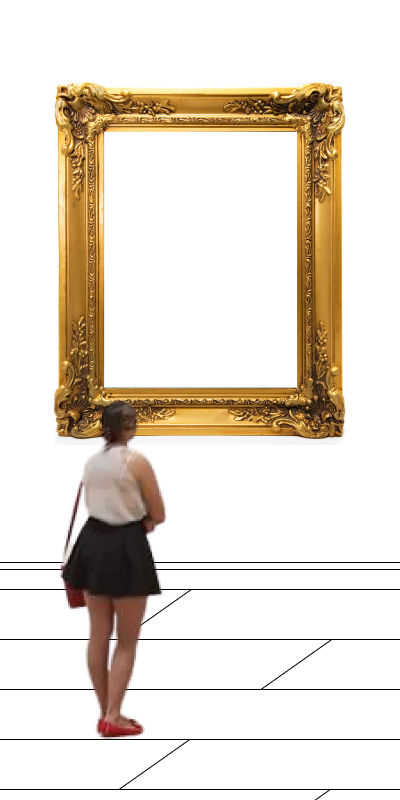
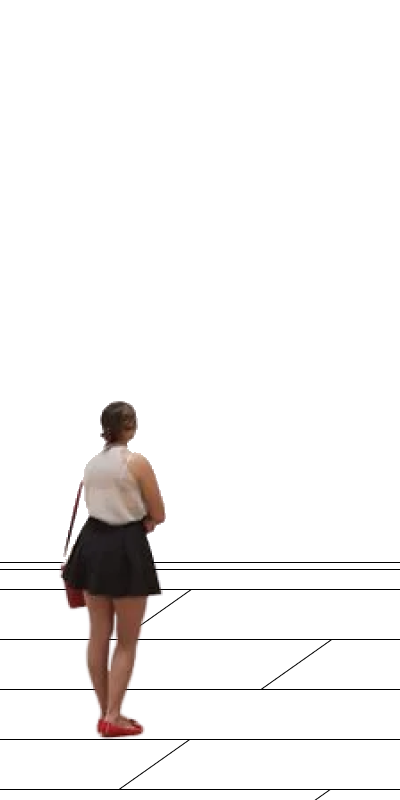
some hero fixes

Changed region(s): [[0.12, 0.0938, 0.87, 0.5938], [0.15, 0.6562, 0.18, 0.7188]]

diff --git a/src/pages/Home/components/Hero/hero.scss b/src/pages/Home/components/Hero/hero.scss
@@ -6,41 +6,74 @@
 
 .hero-container {
   position: relative;
-  display: flex;
-  flex-direction: column;
+  // display: flex;
+  // flex-direction: column;
   align-items: center;
+  // max-height: calc(100vh - 75px - 75px);
+  overflow: hidden;
+  // border-bottom: 20px solid darkorange;
+  padding-bottom: 200px;
+  // position: absolute;
 
   .hero-text {
-    margin-top: 50px;
+    margin: 50px auto;
     text-transform: uppercase;
-    position: absolute;
     top: 0;
     z-index: 1;
+    width: fit-content;
 
     p {
       font-weight: 600;
       font-size: 30pt;
+      font-size: 5vh;
     }
 
     h1 {
       color: $blue;
       font-size: 40pt;
+      margin: 0;
     }
 
     p,
     h1 {
-      margin: 0.25em;
+      // margin: 0.25em;
+      margin: 10px;
+      line-height: 40pt;
     }
   }
 
+  .hero-frame {
+    overflow: hidden;
+  }
+
+  .hero-frame::before {
+    content: "";
+    height: 0;
+    padding-top: 70%;
+    border: 5px solid black;
+    width: 60%;
+    margin: 0 auto;
+    overflow: hidden;
+    box-sizing: border-box;
+    display: block;
+    // background-image: url(https://images.bonnier.cloud/files/his/production/2019/09/09030543/monalisa-top-cl0c6spp8iifduekmjtzyq.jpg);
+    background-size: cover;
+    background-position: center;
+  }
+
   .hero-image {
-    height: 1000px;
+    position: absolute;
+    bottom: 0;
+    right: 0;
+    // height: 100vh;
+    // width: 100%;
+    // margin-top: 200px;
+    height: 50%;
     width: 100%;
-    margin-top: 200px;
     background-image: url(../../../../../public/assets/hero/hero-mobile.png);
     background-size: cover;
     background-repeat: no-repeat;
-    background-position: center;
+    background-position: right 60%;
 
     img {
       width: 150px;
@@ -70,7 +103,6 @@
     }
 
     .hero-image {
-      height: calc(100vh - 75px);
       margin-top: 0;
       background-image: url(../../../../../public/assets/hero/hero-desktop.png);
     }

diff --git a/src/pages/Home/components/Hero/Hero.tsx b/src/pages/Home/components/Hero/Hero.tsx
@@ -4,11 +4,14 @@ export const Hero = () => {
       <div className="hero-text">
         <p>Discover</p>
         <p>The new</p>
-        <a href="/exhibition">
-          {/* skrivstil? */}
-          <h1>Exhibition</h1>
-        </a>
+        <h1>
+          <a href="/exhibition">
+            {/* skrivstil? */}
+            Exhibition
+          </a>
+        </h1>
       </div>
+      <div className="hero-frame"></div>
       <div className="hero-image">
         {/* <img src="/assets/art/pink-eye-color.png" alt="Test" /> */}
       </div>
